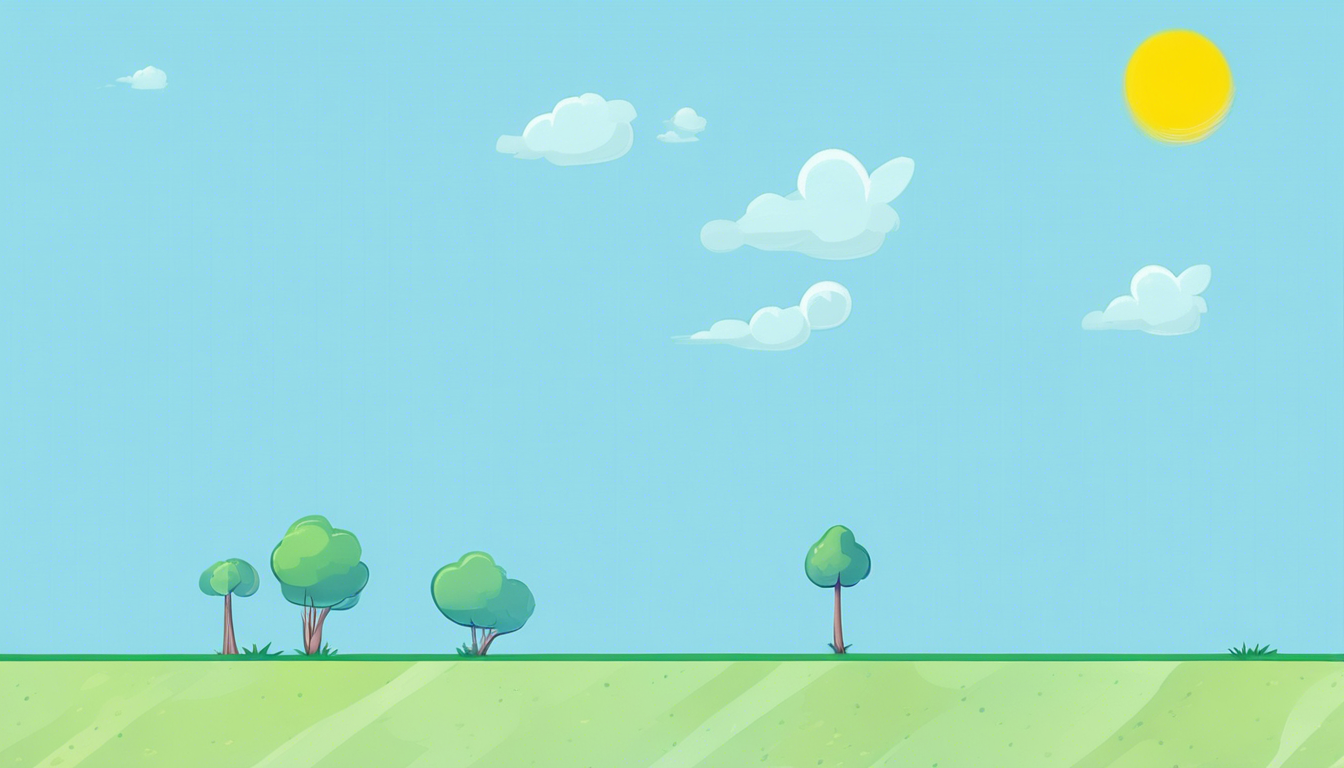
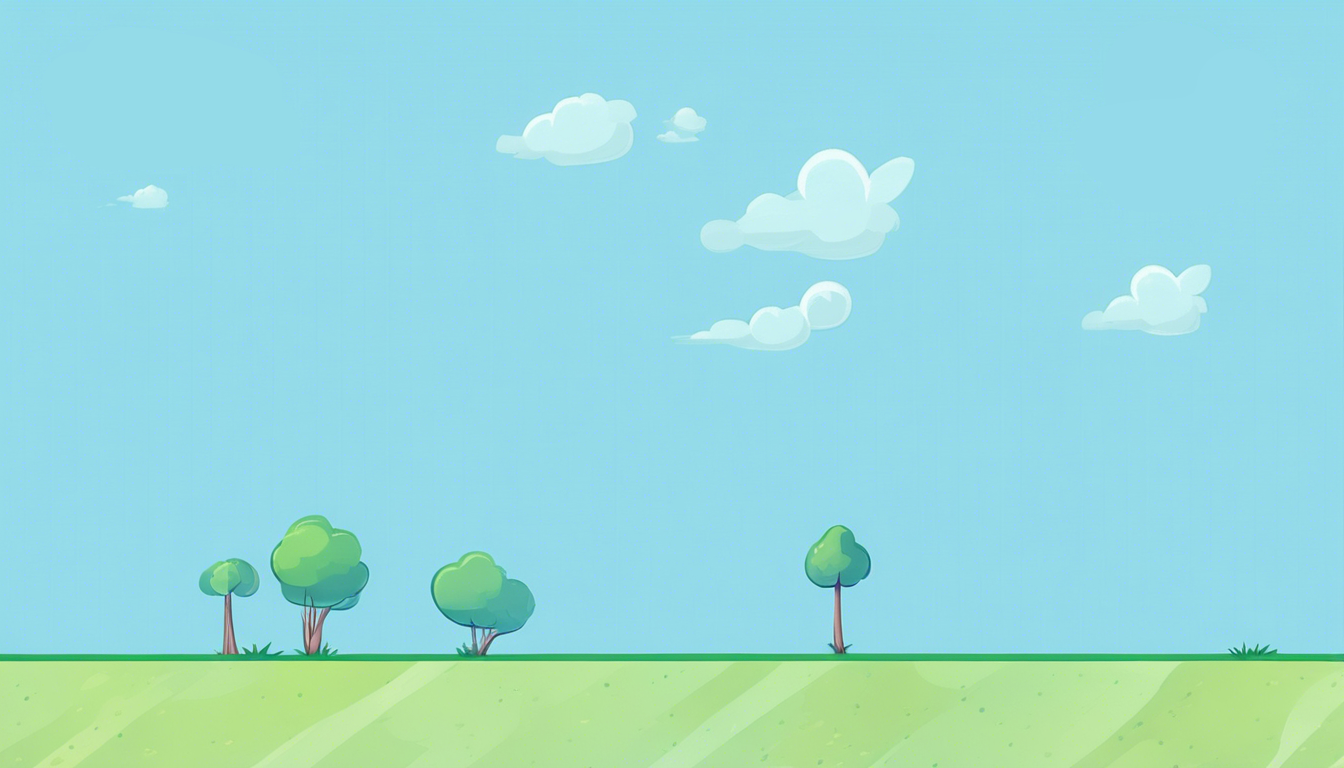
Добавил Солнце в виде отдельного объекта

Changed region(s): [[0.8125, 0.0312, 0.9375, 0.1875], [0.0938, 0.2188, 0.125, 0.2812], [0.0938, 0.0938, 0.125, 0.125]]

diff --git a/src/scenes/game_scene.cpp b/src/scenes/game_scene.cpp
@@ -11,7 +11,7 @@ USING_NS_CC;
 Scene* Game::createScene()
 {
 	Scene* scene = Game::createWithPhysics();
-	scene->getPhysicsWorld()->setDebugDrawMask(PhysicsWorld::DEBUGDRAW_ALL); // physics bodies lines
+	//scene->getPhysicsWorld()->setDebugDrawMask(PhysicsWorld::DEBUGDRAW_ALL); // physics bodies lines
 	//scene->getPhysicsWorld()->setGravity(Vec2(0, 0));
 
 	Game* layer = Game::create();
@@ -50,6 +50,17 @@ bool Game::init()
 	mouseListener->onMouseDown = CC_CALLBACK_1(Game::onMouseDown, this);
 	mouseListener->onMouseUp = CC_CALLBACK_1(Game::onMouseUp, this);
 	Director::getInstance()->getEventDispatcher()->addEventListenerWithSceneGraphPriority(mouseListener, this);
+
+	Sprite* sunSprite = Sprite::create("images/sun.png");
+	//sunSprite->setPosition(Vec2(visibleSize.width - sunSprite->getContentSize().width, visibleSize.height - sunSprite->getContentSize().height));
+	sunSprite->setPosition(Vec2(visibleSize.width, visibleSize.height));
+	PhysicsBody* sunBody = PhysicsBody::createCircle(sunSprite->getContentSize().width / 2);
+	sunBody->setGravityEnable(false);
+	sunBody->setRotationEnable(false);
+	sunBody->setCategoryBitmask(false);
+	sunBody->setContactTestBitmask(false);
+	sunSprite->setPhysicsBody(sunBody);
+	addChild(sunSprite, 1);
 
 	Enemy::init(this);
 
